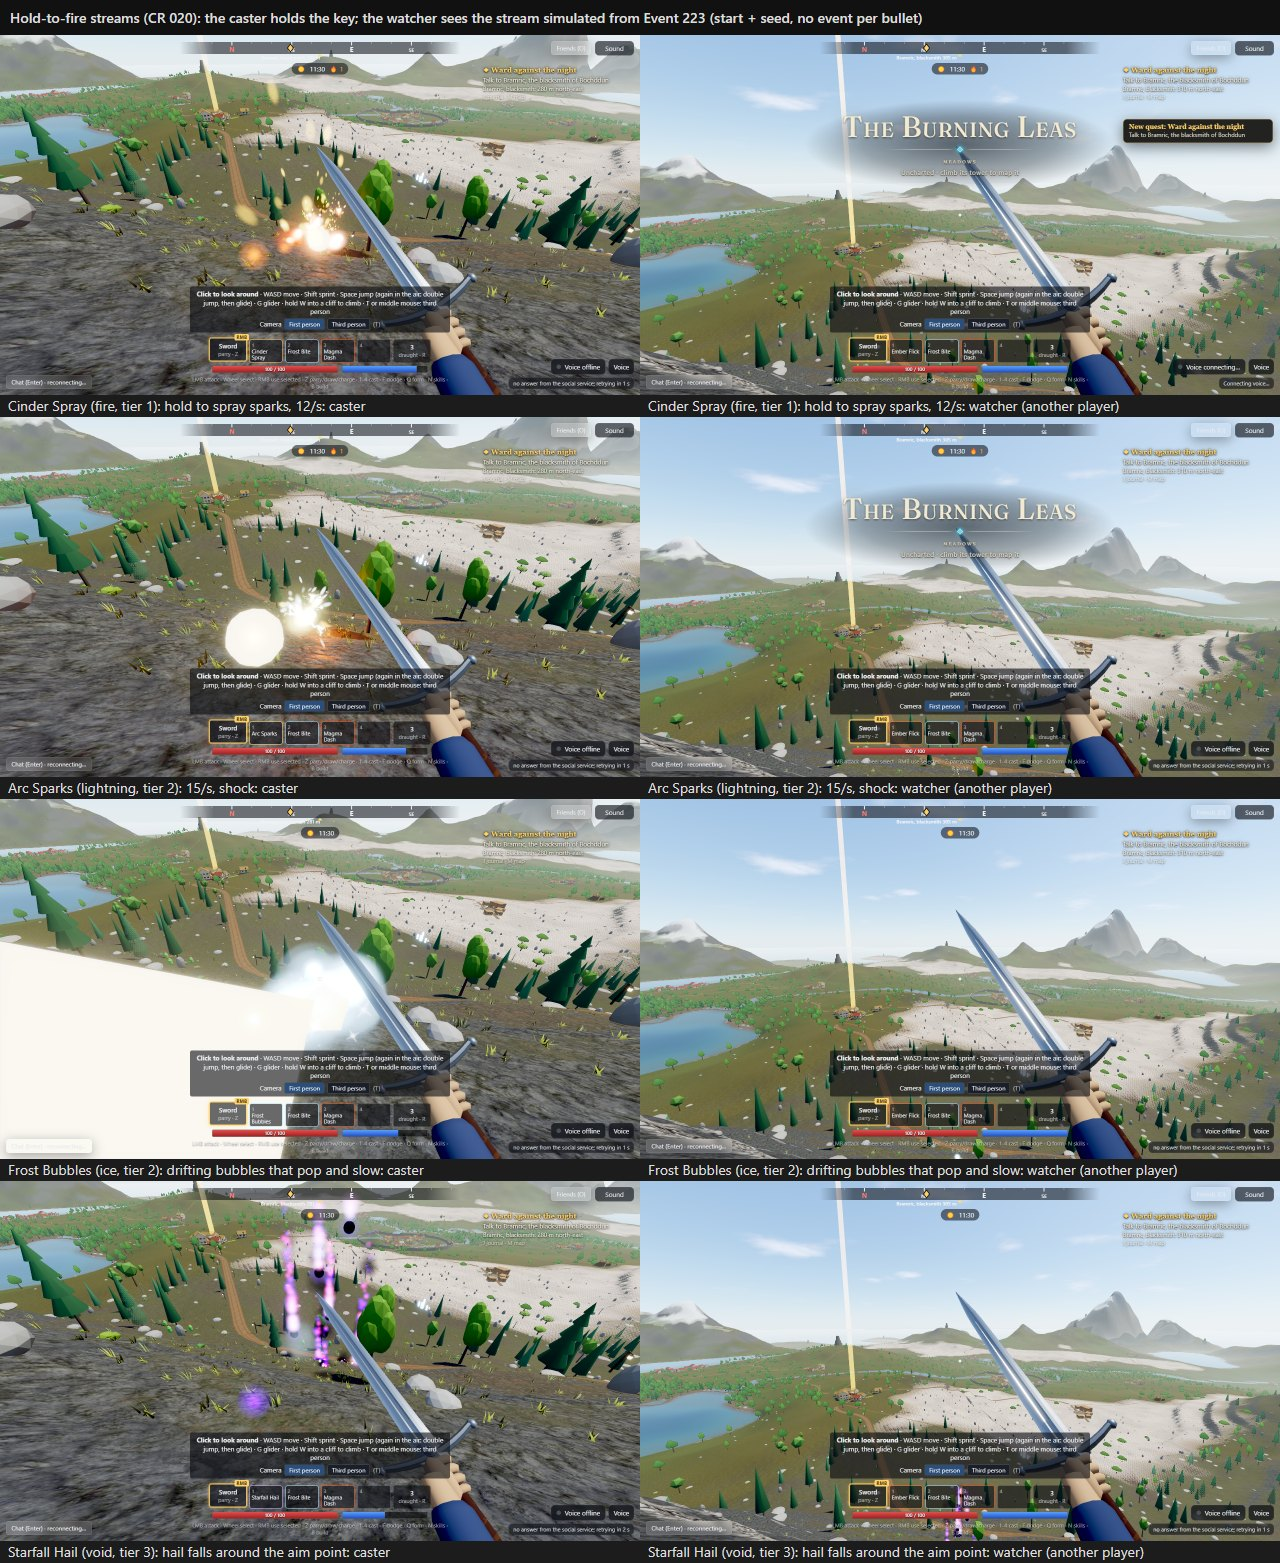
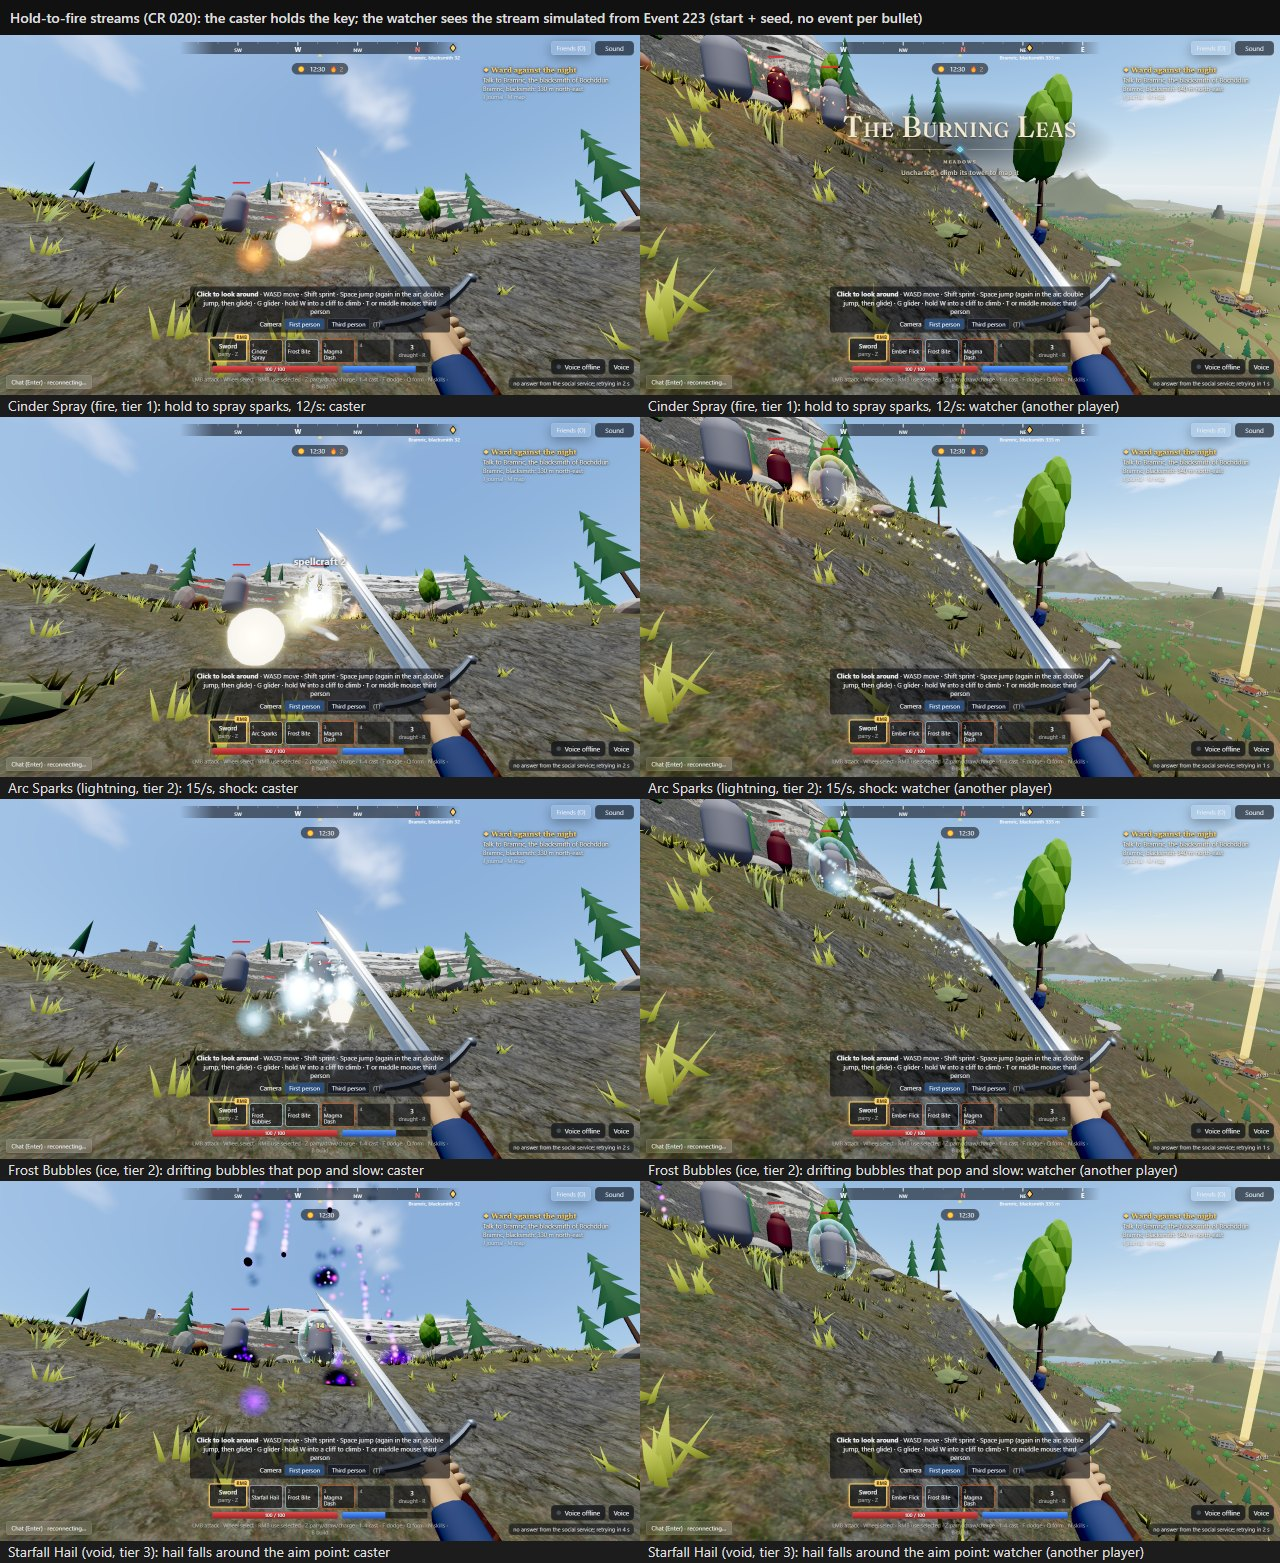
Spell mechanics: HitClaim budget fits a full-rate stream (a stream's claims could trip the rate-limit kick), at most 4 claims per bursting stream shot, quieter stream impacts; fx routing tests for streams, charges and Events 223-225

diff --git a/client/src/combat/fx/fx.test.ts b/client/src/combat/fx/fx.test.ts
@@ -19,6 +19,7 @@ import { EV } from '../events';
 import { newMoveState } from '../../sim/movement';
 import { drawnRemotes } from '../../net/netStore';
 import type { RemoteView } from '../../net/interpolation';
+import { streamSeed } from '../spellsim';
 
 afterEach(() => {
   setSpellFxEngine(null);
@@ -278,6 +279,52 @@ describe('the runtime drives the FX engine', () => {
     expect(byKind.status).toEqual([99, 1]);
     expect(byKind.shieldPoints).toEqual([0]);
     expect(byKind.enemyProjectile[0]).toBe(5);
+  });
+  it('CR 020: your stream starts, fires a projectile per shot and ends; a held charge gathers then fires', () => {
+    const calls = fake();
+    const r = runtime();
+    r.timeline.loadout = { weapon: 'wand', spells: ['cinder_spray', 'boulder_heave', null, null], gem: -1 };
+    const st = newMoveState({ x: 0, y: 10, z: 0 });
+    r.hold(0, true);
+    for (let s = 10; s < 21; s++) r.stepHook(s, st, false);
+    r.hold(0, false);
+    r.stepHook(21, st, false);
+    const ks = calls.map((c) => c.k);
+    expect(ks).toContain('streamStart');
+    expect(ks.filter((k) => k === 'projectile').length).toBe(3); // shots at steps 10, 15, 20
+    expect(ks).toContain('channelEnd');
+    calls.length = 0;
+    r.hold(1, true);
+    for (let s = 40; s < 60; s++) r.stepHook(s, st, false);
+    r.hold(1, false);
+    r.stepHook(60, st, false);
+    for (let s = 60; s < 64; s++) r.afterStep(s, st);
+    const k2 = calls.map((c) => c.k);
+    expect(k2).toContain('chargeStart');
+    expect(k2).toContain('projectile');
+  });
+  it('CR 020 Events: a remote stream (223) simulated from its seed, its stop, bursts (224), ally attacks (225), a released charge (214 + u8)', () => {
+    const calls = fake();
+    const r = runtime();
+    const sp = COMBAT.spells.find((s) => s.key === 'arc_sparks')!;
+    const start = new Uint8Array(8);
+    new DataView(start.buffer).setUint32(4, 4242, true);
+    r.onEvent(ev(EV.channel, { entityId: 9, targetId: sp.id, value: 1, data: start }));
+    r.onEvent(ev(EV.channel, { entityId: 9, targetId: sp.id, value: 0, data: new Uint8Array(6) }));
+    const radius = new Uint8Array(2);
+    new DataView(radius.buffer).setUint16(0, 300, true);
+    r.onEvent(ev(EV.detonate, { entityId: 9, targetId: 50, value: COMBAT.spells.find((s) => s.key === 'burrowing_seed')!.id, data: radius }));
+    r.onEvent(ev(EV.summonAttack, { entityId: 77, targetId: 50, value: COMBAT.spells.find((s) => s.key === 'wraith_hound')!.id }));
+    const charged = new Uint8Array(5);
+    charged[4] = 255;
+    r.onEvent(ev(EV.cast, { entityId: 9, targetId: COMBAT.spells.find((s) => s.key === 'boulder_heave')!.id, data: charged }));
+    const byKind = Object.fromEntries(calls.map((c) => [c.k, c.a]));
+    expect(byKind.remoteStream[0]).toBe(9);
+    expect(byKind.remoteStream[7]).toBe(streamSeed(4242, sp.id));
+    expect(byKind.remoteChannelEnd).toEqual([9]);
+    expect(byKind.detonate[4]).toBe(3);
+    expect(byKind.summonAttack.slice(0, 2)).toEqual([77, 50]);
+    expect(byKind.remoteCast[7]).toBe(1);
   });
   it('remote casts route: dash variants, forms, spells (visual only, from the event origin)', () => {
     const e = new SpellFxEngine(0);

diff --git a/client/src/combat/runtime.ts b/client/src/combat/runtime.ts
@@ -702,9 +702,12 @@ export class CombatRuntime {
 
   private explode(sh: LocalShot): void {
     // The explosion visual is the projectile's end (spellFx.projectileEnd with the radius).
-    emitSound('impact', { at: { x: sh.x, y: sh.y, z: sh.z }, element: sh.started.spell?.tree ?? 'earth' });
+    const stream = sh.started.shot !== undefined;
+    // CR 020: a stream pops 8-15 times a second: one quiet impact cue in three, claims for at most 4 (the zone's per-shot limit).
+    if (!stream || (sh.started.shot ?? 0) % 3 === 0) emitSound('impact', { at: { x: sh.x, y: sh.y, z: sh.z }, element: sh.started.spell?.tree ?? 'earth' });
+    let n = 0;
     for (const e of this.enemies()) {
-      if (Math.hypot(e.x - sh.x, e.z - sh.z) <= sh.aoe + enemyInfo(e).radius) this.predictHit(sh.started, e, { x: sh.x, y: sh.y, z: sh.z }, sh.started.kind, true);
+      if (Math.hypot(e.x - sh.x, e.z - sh.z) <= sh.aoe + enemyInfo(e).radius && (!stream || n++ < 4)) this.predictHit(sh.started, e, { x: sh.x, y: sh.y, z: sh.z }, sh.started.kind, true);
     }
   }
 
@@ -725,7 +728,7 @@ export class CombatRuntime {
     fxQueue.push({ t: 'spark', x: at.x, y: at.y, z: at.z, color: s.spell?.color ?? '#fff3c0', at: now });
     const gem = this.timeline.loadout.gem;
     spellFx.hit(s.spell ?? null, at.x, at.y, at.z, { tint: !s.spell && gem >= 0 ? ELEMENT_COLORS[gem] : null, heavy: kind === 'form' || s.move?.kind === 'heavy' });
-    if (!impactIsOrigin) emitSound('impact', { at, element: s.spell?.tree, weapon: this.timeline.weapon().key });
+    if (!impactIsOrigin && (s.shot === undefined || s.shot % 3 === 0)) emitSound('impact', { at, element: s.spell?.tree, weapon: this.timeline.weapon().key }); // CR 020: a stream rings every third hit
     if (kind === 'move' || kind === 'form') this.hitstopUntil = Math.max(this.hitstopUntil, now + HITSTOP_MS);
     this.probe.localHit(s, now, kind === 'move' || kind === 'form' ? HITSTOP_MS : 0);
     const claimAt = impactIsOrigin ? origin : localPlayer.pos;

diff --git a/client/src/combat/fx/engine.ts b/client/src/combat/fx/engine.ts
@@ -30,7 +30,7 @@ import * as R from './recipes';
 import { screenKick, screenTick, screenTint } from './screen';
 import type { CircleMat, ZoneMat } from './materials';
 import { COMBAT } from '@lodestone/contracts';
-import { canAcquire, chargeMult, homingParams, homingStep, launchShot, orbOffset, rainOffset, shotJitter, SIM_DT, type HomingParams, type HomingShot } from '../spellsim';
+import { canAcquire, chargeMult, homingParams, homingStep, orbOffset, rainOffset, shotJitter, SIM_DT, type HomingParams, type HomingShot } from '../spellsim';
 
 const EYE = 1.6;
 const STEP_MS = 1000 / 60;

diff --git a/server/zone/internal/game/claims_rate_test.go b/server/zone/internal/game/claims_rate_test.go
@@ -1,0 +1,41 @@
+package game
+
+import (
+	"testing"
+	"time"
+
+	"lodestone/server/pkg/constants"
+	"lodestone/server/pkg/proto"
+)
+
+// CR 020: a hold-to-fire stream claims every bullet. At the fastest rate
+// (AUTO_MAX_RATE_HZ) with every shot a bursting one (4 targets, the zone's
+// per-shot cap) for 10 s, the HitClaim budget never refuses (a refusal
+// counts toward a rate-limit kick), while a client claiming twice that is
+// throttled.
+func TestHitClaimBudgetFitsAStream(t *testing.T) {
+	b := newBuckets()[proto.MsgHitClaim]
+	now := time.Unix(1_800_000_000, 0)
+	per := constants.AutoMaxRateHz * 4
+	for s := 0; s < 10*constants.AutoMaxRateHz; s++ {
+		now = now.Add(time.Second / time.Duration(constants.AutoMaxRateHz))
+		for k := 0; k < 4; k++ {
+			if !b.Take(now) {
+				t.Fatalf("a stream's claims were throttled after %d shots (%d claims/s)", s, per)
+			}
+		}
+	}
+	c := newBuckets()[proto.MsgHitClaim]
+	refused := 0
+	for s := 0; s < 10*constants.AutoMaxRateHz; s++ {
+		now = now.Add(time.Second / time.Duration(constants.AutoMaxRateHz))
+		for k := 0; k < 8; k++ {
+			if !c.Take(now) {
+				refused++
+			}
+		}
+	}
+	if refused == 0 {
+		t.Fatal("twice the stream budget was never throttled")
+	}
+}

diff --git a/server/zone/internal/game/session.go b/server/zone/internal/game/session.go
@@ -85,7 +85,9 @@ func newBuckets() [256]*ratelimit.Bucket {
 	mk := func(capacity, rate float64) *ratelimit.Bucket { x := ratelimit.New(capacity, rate); return &x }
 	b[proto.MsgInput] = mk(60, 40)
 	b[proto.MsgClockPing] = mk(16, 4)
-	b[proto.MsgHitClaim] = mk(30, 15)
+	// CR 020: a hold-to-fire stream claims every bullet (up to 15/s, a bursting
+	// shot up to 4 targets): 60/s sustained, bursts of 120.
+	b[proto.MsgHitClaim] = mk(120, 60)
 	b[proto.MsgInteract] = mk(10, 5)
 	b[proto.MsgBye] = mk(4, 1)
 	b[proto.MsgHello] = mk(2, 0.1)
